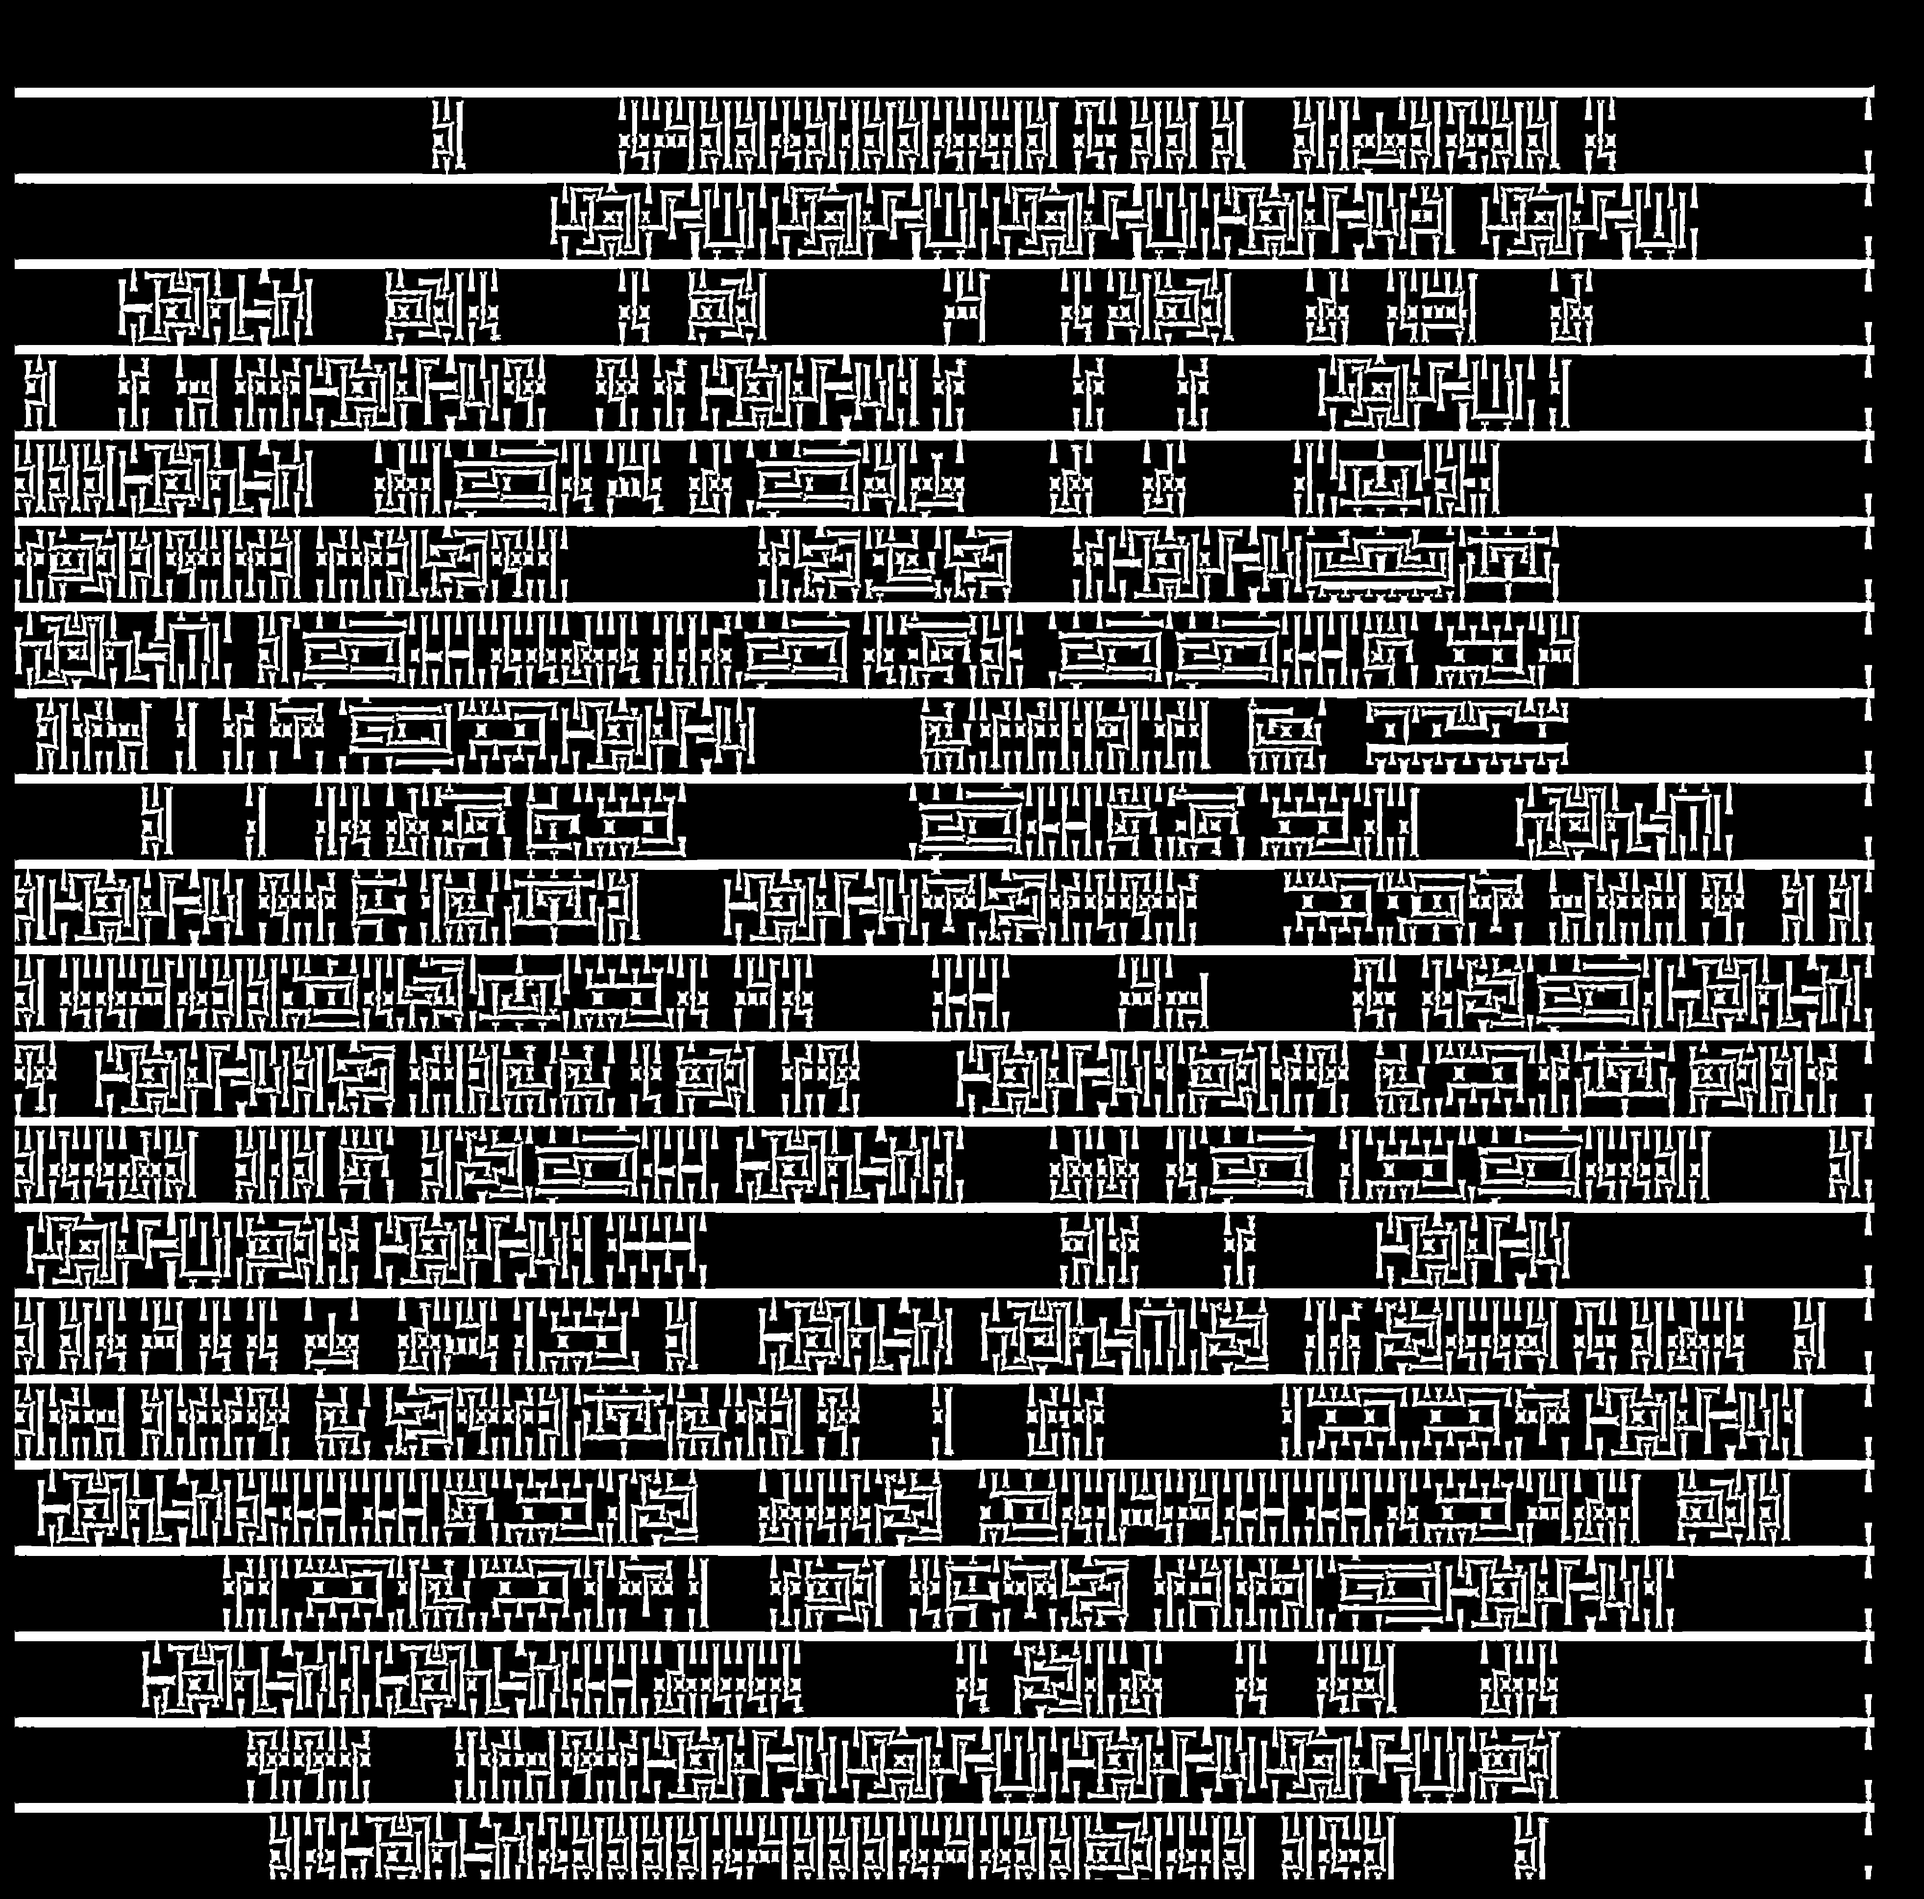
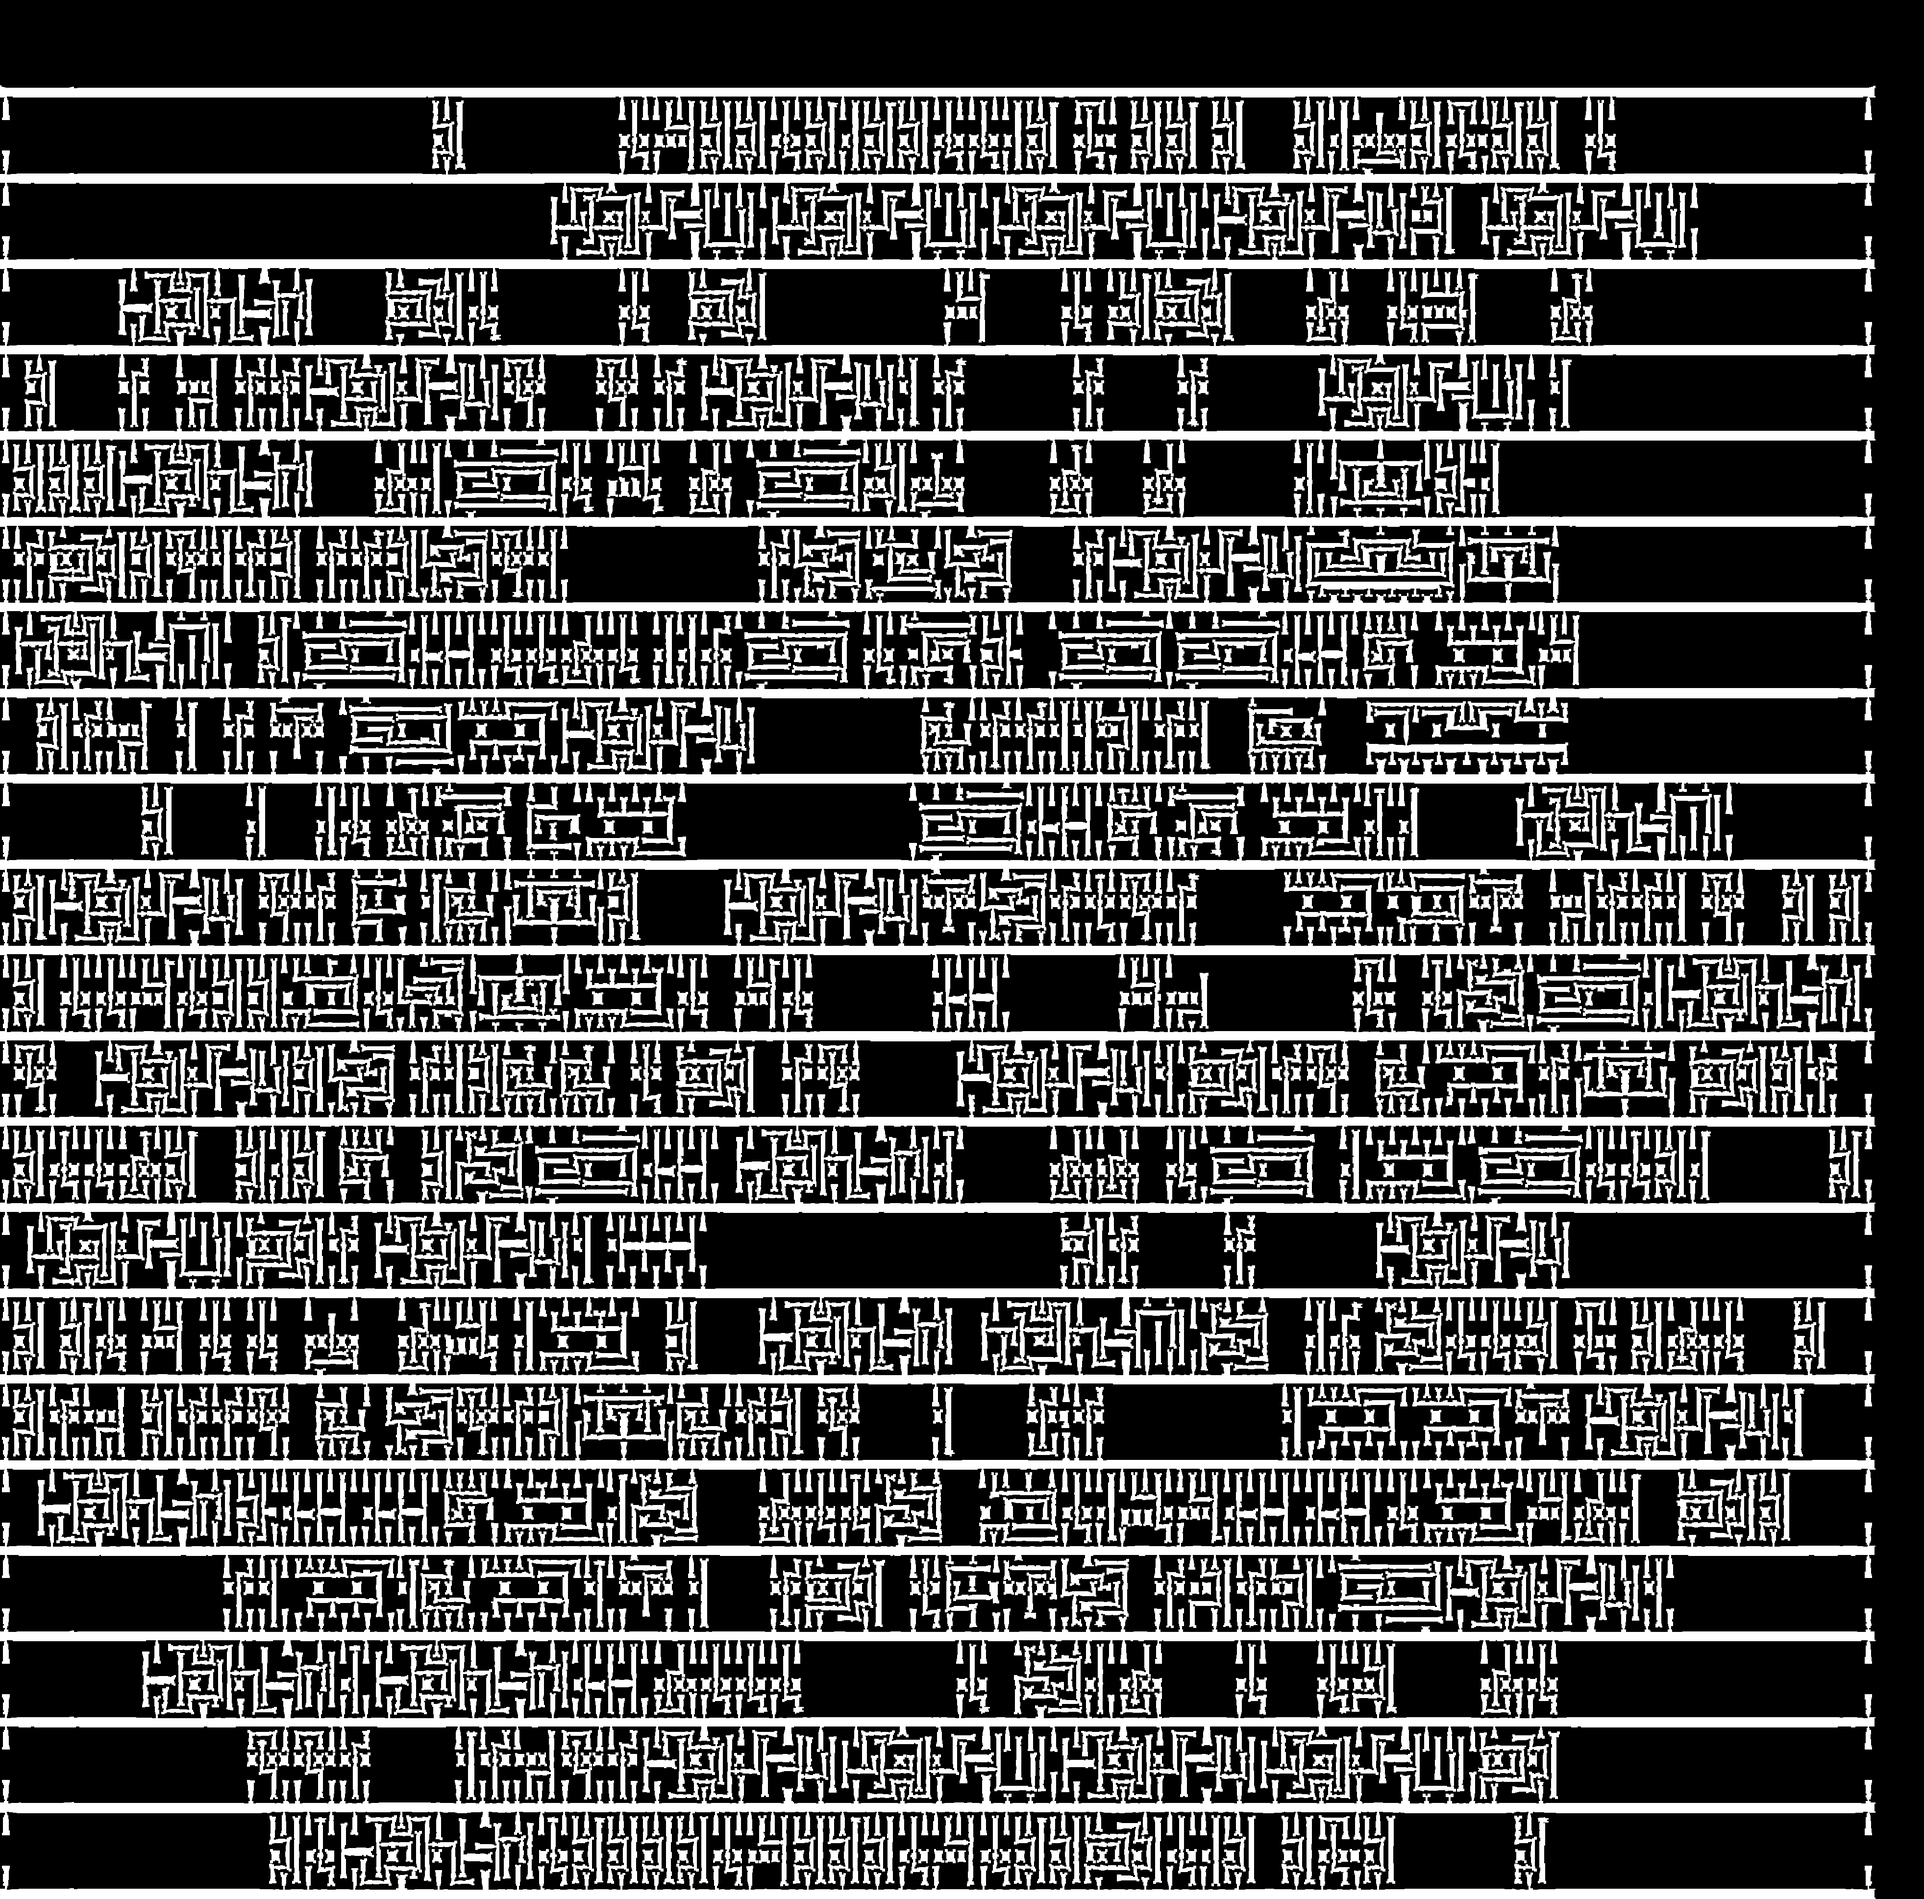
Subtle changes

diff --git a/opc/simpleopc.py b/opc/simpleopc.py
@@ -42,7 +42,7 @@ def flattenSegments(segments):
     return linked, results
 
 
-def cropSegments(segments, layer=11, dbu=1e-3, sizeX=1200, sizeY=1600, strideX=570, strideY=700): 
+def cropSegments(segments, layer=11, dbu=1e-3, sizeX=1200, sizeY=1600, strideX=570, strideY=700, fromzero=True): 
     polygons = []
     for dissected in segments: 
         reconstr = poly.segs2poly(dissected)
@@ -50,8 +50,8 @@ def cropSegments(segments, layer=11, dbu=1e-3, sizeX=1200, sizeY=1600, strideX=5
     print(f"In total {len(polygons)} shapes")
 
     reconstr = layout.createLayout(polygons, layer=layer, dbu=dbu)
-    crops, coords = layout.getCrops(reconstr, layer=layer, sizeX=sizeX, sizeY=sizeY, 
-                                    strideX=strideX, strideY=strideY, maxnum=None, verbose=False)
+    crops, coords = layout.getCrops(reconstr, layer=layer, sizeX=sizeX, sizeY=sizeY, strideX=strideX, strideY=strideY, 
+                                    maxnum=None, fromzero=fromzero, verbose=False)
     print(f"In total {len(crops)} crops")
 
     return crops, coords
@@ -60,7 +60,7 @@ def cropSegments(segments, layer=11, dbu=1e-3, sizeX=1200, sizeY=1600, strideX=5
 STEPS = 8
 DECAY = 4
 STEPSIZE = 8
-BATCHSIZE = 16
+BATCHSIZE = 64
 MAXDIST = 24
 SCALE = 0.125
 if __name__ == "__main__": 
@@ -73,6 +73,8 @@ if __name__ == "__main__":
     linked, flattened = flattenSegments(segments)
     linkedEPE = copy.deepcopy(linked)
     refsEPE = copy.deepcopy(flattened)
+
+    stepsize = STEPSIZE
 
     features = []
     for idx, segment in enumerate(refsEPE): 
@@ -105,7 +107,7 @@ if __name__ == "__main__":
     print(" ->", bins)
 
     bigsim = litho.PatchSim(litho.LithoSim(), sizeX=1200, sizeY=1600, scale=SCALE)
-    crops, coords = cropSegments(linked, layer=11, dbu=1e-3, sizeX=1200, sizeY=1600, strideX=570, strideY=700)
+    crops, coords = cropSegments(linked, layer=11, dbu=1e-3, sizeX=1200, sizeY=1600, strideX=570, strideY=700, fromzero=True)
     bignom, bigmax, bigmin, origin = bigsim.simulate(crops, coords, batchsize=BATCHSIZE)
     
     valids, lefts, rights, ups, downs = bigsim.validate(refsEPE, origin)
@@ -121,7 +123,7 @@ if __name__ == "__main__":
     for step in range(STEPS): 
         print(f"Step {step}")
         timePart = time.time()
-        crops, coords = cropSegments(linked, layer=11, dbu=1e-3, sizeX=1200, sizeY=1600, strideX=570, strideY=700)
+        crops, coords = cropSegments(linked, layer=11, dbu=1e-3, sizeX=1200, sizeY=1600, strideX=570, strideY=700, fromzero=True)
         timePart = time.time() - timePart
         timePartAll += timePart
         
@@ -152,21 +154,21 @@ if __name__ == "__main__":
         for idx, elems in enumerate(flattened): 
             assert hmoves[idx] == 0 or vmoves[idx] == 0
             # if hmoves[idx] != 0: 
-            #     flattened[idx][0] = (flattened[idx][0][0] + round(STEPSIZE * hmoves[idx]), flattened[idx][0][1])
-            #     flattened[idx][1] = (flattened[idx][1][0] + round(STEPSIZE * hmoves[idx]), flattened[idx][1][1])
+            #     flattened[idx][0] = (flattened[idx][0][0] + round(stepsize * hmoves[idx]), flattened[idx][0][1])
+            #     flattened[idx][1] = (flattened[idx][1][0] + round(stepsize * hmoves[idx]), flattened[idx][1][1])
             # if vmoves[idx] != 0: 
-            #     flattened[idx][0] = (flattened[idx][0][0], flattened[idx][0][1] + round(STEPSIZE * vmoves[idx]))
-            #     flattened[idx][1] = (flattened[idx][1][0], flattened[idx][1][1] + round(STEPSIZE * vmoves[idx]))
+            #     flattened[idx][0] = (flattened[idx][0][0], flattened[idx][0][1] + round(stepsize * vmoves[idx]))
+            #     flattened[idx][1] = (flattened[idx][1][0], flattened[idx][1][1] + round(stepsize * vmoves[idx]))
             if hmoves[idx] != 0: 
-                node0 = (flattened[idx][0][0] + round(STEPSIZE * hmoves[idx]), flattened[idx][0][1])
-                node1 = (flattened[idx][1][0] + round(STEPSIZE * hmoves[idx]), flattened[idx][1][1])
+                node0 = (flattened[idx][0][0] + round(stepsize * hmoves[idx]), flattened[idx][0][1])
+                node1 = (flattened[idx][1][0] + round(stepsize * hmoves[idx]), flattened[idx][1][1])
                 if abs(node0[0] - reference[idx][0][0]) <= MAXDIST: 
                     flattened[idx][0] = node0
                 if abs(node1[0] - reference[idx][1][0]) <= MAXDIST: 
                     flattened[idx][1] = node1
             if vmoves[idx] != 0: 
-                node0 = (flattened[idx][0][0], flattened[idx][0][1] + round(STEPSIZE * vmoves[idx]))
-                node1 = (flattened[idx][1][0], flattened[idx][1][1] + round(STEPSIZE * vmoves[idx]))
+                node0 = (flattened[idx][0][0], flattened[idx][0][1] + round(stepsize * vmoves[idx]))
+                node1 = (flattened[idx][1][0], flattened[idx][1][1] + round(stepsize * vmoves[idx]))
                 if abs(node0[1] - reference[idx][0][1]) <= MAXDIST: 
                     flattened[idx][0] = node0
                 if abs(node1[1] - reference[idx][1][1]) <= MAXDIST: 
@@ -180,7 +182,7 @@ if __name__ == "__main__":
             bigminBest = bigmin
 
         if step > 0 and step % DECAY == 0: 
-            STEPSIZE /= 2
+            stepsize /= 2
 
     epe, viosAll, hmoves, vmoves = bigsim.checkEPE(reference, bignomBest, origin, distance=16, details=True)
     print(f"Final -> Fine-grained EPE violations: {epe}, {len(hmoves)}, {len(vmoves)}, {np.sum(hmoves!=0)+np.sum(vmoves!=0)}")
@@ -198,4 +200,12 @@ if __name__ == "__main__":
     cv2.imwrite(f"tmp/{basename}_origin.png", np.flip(origin*255, axis=0))
     cv2.imwrite(f"tmp/{basename}_modified.png", np.flip(modified*255, axis=0))
     cv2.imwrite(f"tmp/{basename}_simed.png", np.flip(bignom*255, axis=0))
-    
+
+
+'''
+Final -> Fine-grained EPE violations: 23542, 194937, 194937, 23489
+EPE violations: 23542=7514+16034/383541/389874
+Final -> Coarse-grained EPE violations: 23542
+Final -> L2: 452295.906; PVB: 145118.938
+Runtime -> Segmentation: 1.373 s; Partition: 29.795 s; Simulation+Combination: 50.358 s; Moving: 3.726 s
+'''

diff --git a/opc/iccad13.py b/opc/iccad13.py
@@ -308,13 +308,24 @@ class PatchSim:
             coord0b = min(coord0a + patches[idx].shape[0], concated.shape[0])
             coord1b = min(coord1a + patches[idx].shape[1], concated.shape[1])
             masked = torch.zeros_like(patches[idx])
-            valid0 = round(patches[idx].shape[0] * 0.2) if coord0b < max0 else 0
-            valid1 = round(patches[idx].shape[1] * 0.2) if coord1b < max1 else 0
-            masked[valid0:-valid0, valid1:-valid1] = 1
-            # print(f"({coord0a,coord0b}), ({coord1a,coord1b})", patches[idx].shape)
+            valid0 = round(patches[idx].shape[0] * 0.25)
+            valid1 = round(patches[idx].shape[1] * 0.25)
+            if coord0a == 0 and coord1a == 0: 
+                masked[:, :] = 1
+            elif coord0a == 0: 
+                masked[:, valid1:-valid1] = 1
+            elif coord1a == 0: 
+                masked[valid0:-valid0, :] = 1
+            else: 
+                masked[valid0:-valid0, valid1:-valid1] = 1
+            coord0a = max(coord0a, 0)
+            coord1a = max(coord1a, 0)
+            start0 = max(-coord0a, 0)
+            start1 = max(-coord1a, 0)
             size0 = coord0b - coord0a
             size1 = coord1b - coord1a
-            concated[coord0a:coord0b, coord1a:coord1b] += (patches[idx] * masked)[:size0, :size1]
+            # print(concated.shape, patches[idx].shape, masked.shape, coord0a, coord0b, start0, size0, coord1a, coord1b, start1, size1)
+            concated[coord0a:coord0b, coord1a:coord1b] += (patches[idx] * masked)[start0:size0, start1:size1]
             counts[coord0a:coord0b, coord1a:coord1b] += (torch.ones_like(patches[idx]) * masked)[:size0, :size1]
         counts[counts <= 1e-3] = 1e-3
         concated = concated / counts

diff --git a/utils/layout.py b/utils/layout.py
@@ -221,7 +221,7 @@ def yieldShapes(infile, layer, fromX, fromY, toX, toY, anchor="min", verbose=Tru
         if len(polygons) > 0: 
             yield polygons, coords
 
-def yieldCrops(infile, layer, sizeX, sizeY, strideX, strideY, offsetX=0, offsetY=0, verbose=True): # unit: nm
+def yieldCrops(infile, layer, sizeX, sizeY, strideX, strideY, offsetX=0, offsetY=0, fromzero=True, verbose=True): # unit: nm
     ly = infile
     bbox = ly.top_cell().bbox()
     topcell = ly.top_cell().cell_index()
@@ -230,6 +230,9 @@ def yieldCrops(infile, layer, sizeX, sizeY, strideX, strideY, offsetX=0, offsetY
     bottom = bbox.bottom
     right = bbox.right
     top = bbox.top
+    if fromzero: 
+        left = max(0, left)
+        bottom = max(0, bottom)
     if verbose: 
         print(f"Bounding box: {bbox}, selected layer: {layer}")
         
@@ -270,8 +273,8 @@ def yieldCrops(infile, layer, sizeX, sizeY, strideX, strideY, offsetX=0, offsetY
                 yield polygons, (round(idx/scale), round(jdx/scale))
 
 
-def getCrops(infile, layer, sizeX, sizeY, strideX, strideY, offsetX=0, offsetY=0, maxnum=None, verbose=True): # unit: nm
-    iterator = yieldCrops(infile, layer, sizeX, sizeY, strideX, strideY, offsetX=offsetX, offsetY=offsetY, verbose=verbose)
+def getCrops(infile, layer, sizeX, sizeY, strideX, strideY, offsetX=0, offsetY=0, maxnum=None, fromzero=True, verbose=True): # unit: nm
+    iterator = yieldCrops(infile, layer, sizeX, sizeY, strideX, strideY, offsetX=offsetX, offsetY=offsetY, fromzero=fromzero, verbose=verbose)
     images = []
     coords = []
     for datum, (x, y) in iterator: 
